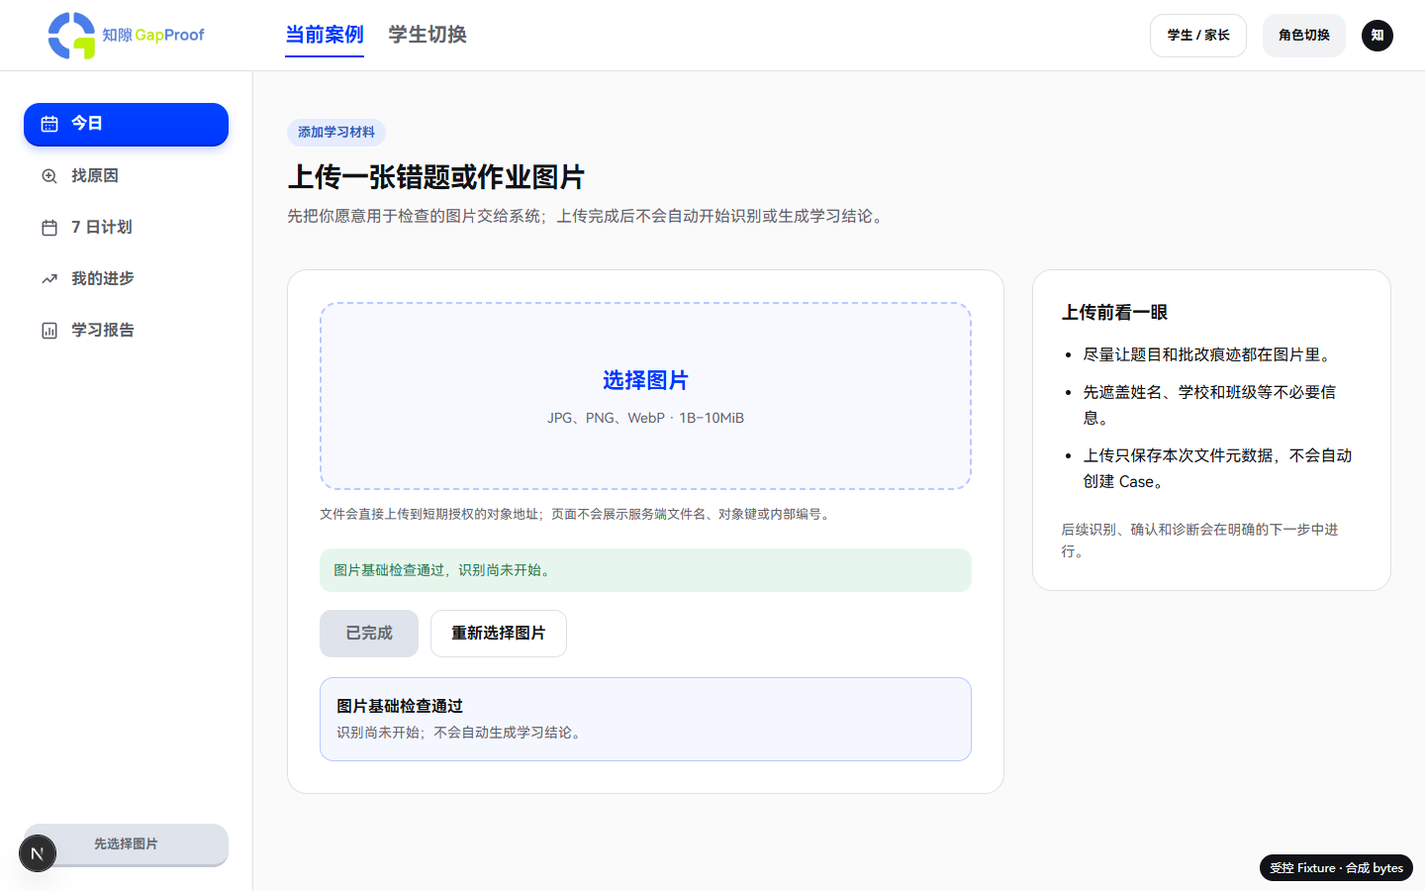
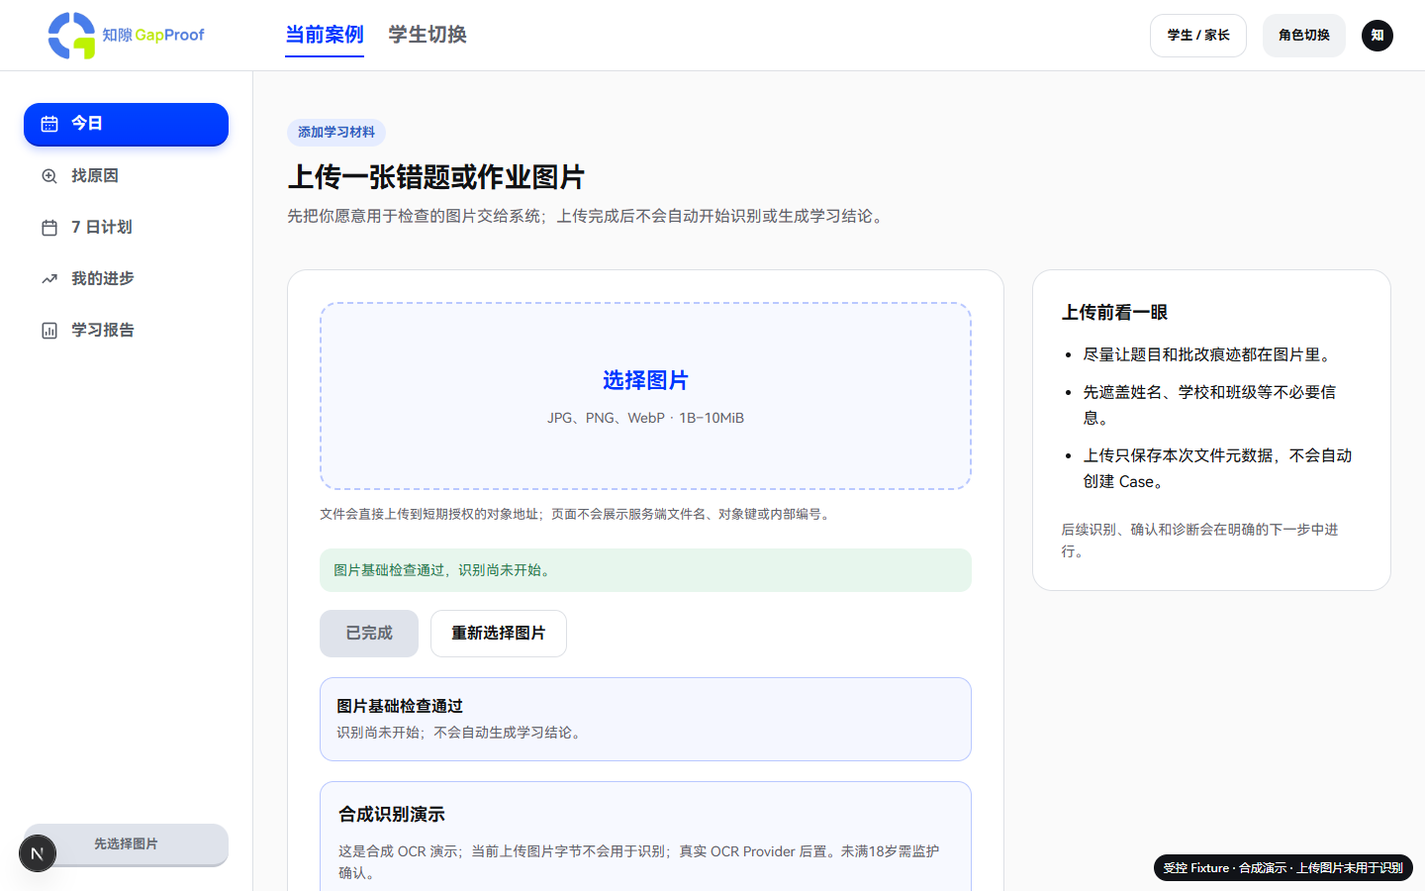
feat: complete explicit synthetic OCR acceptance flow

Changed region(s): [[0.2188, 0.9022, 0.6562, 0.9956], [0.8125, 0.9333, 1.0, 0.9956]]

diff --git a/PROJECT_MASTER.md b/PROJECT_MASTER.md
@@ -2,9 +2,9 @@
 project_name: "知隙 GapProof"
 document_title: "GapProof 项目主文档（Project Master / 单一事实源）"
 document_role: "跨窗口协作、产品规划、技术设计、比赛交付与状态管理的唯一主文档"
-version: "0.1.34"
+version: "0.1.35"
 status: "ACTIVE"
-current_stage: "项目本身初赛验收冲刺；PUSH-019 显式合成识别启动后端已通过门禁待发布；前端可点击入口仍待接入"
+current_stage: "本轮项目本身初赛验收标准已达到（仅合成 OCR 工程证据）；PUSH-020 显式可点击启动闭环已通过门禁待发布"
 last_updated: "2026-08-15"
 timezone: "Asia/Singapore"
 owner: "项目发起人"
@@ -144,7 +144,7 @@ next_action:
 
 `[FACT]` GOAI 无界应用赛道参赛手册列出的初赛截止日期为 2026-08-16；具体当天截止时刻、入口、文件大小及后续通知仍须在官网、提交系统或官方群再次核对。
 
-`[DECISION]` 当前处于：**项目本身初赛验收冲刺；学生端“今日”页默认入口已接入真实 API，ready guided、D1 与 D7 均有受控提交；D7 客观复测通过仅显示 `repair_verified` 中性结果，失败最多两次规则化合成重排后进入 `support_required`。当前初赛项目验收允许使用醒目标注的合成 OCR Demo；真实阿里云 OCR 后置。图片基础检查成功后的显式合成识别启动 API 已能原子创建/绑定 Case 并排队受守卫 Fake OCR，但前端“开始识别并创建案例”按钮仍未接入；上传字节不参与识别。异步报告不属于本轮项目验收；`report_ready` 仅保留“报告已生成、有权威引用且当前可读”的严格语义**。
+`[DECISION]` 当前处于：**本轮项目本身初赛验收标准已达到，但 OCR 证据严格限定为醒目标注的合成工程 Demo。学生端“今日”页默认 API 已接入 ready guided、D1 与 D7 受控提交；D7 通过仅显示 `repair_verified`，失败最多两次规则化合成重排后进入 `support_required`。上传页在基础检查通过后提供监护确认与显式“开始识别并创建案例”，同源 API 原子创建/绑定合成 Case 并排队受守卫 Fake OCR；上传图片字节不参与识别，真实阿里云 OCR 后置。异步报告不属于本轮验收；`report_ready` 仍只表示报告已生成、有权威引用且当前可读**。
 
 ### 1.2 已完成
 
@@ -188,7 +188,7 @@ next_action:
 - `[PLANNED]` 尚未建立 30–40 个技能节点及 12 个深度节点的图谱 V0.1。
 - `[PLANNED]` 尚未制作比赛用原创模拟试卷、合成学生轨迹和独立金标集。
 - `[PLANNED]` 尚未确认至少一位英语教育背景人员能否短时抽检核心金标内容。
-- `[PROTOTYPE]` 已建立最小后端 Thin Slice，并完成真实图片字节上传、确定性图片 header/尺寸质量检查、显式合成识别启动 API、受 Demo 守卫的 Fake OCR、无网络合成识别确认演示、确定性干预生成、guided/D1/D7 前端安全提交、D1/D7 后端评分及两次规则化重排封顶；尚未形成从真实 OCR 识别到修复证明的完整端到端 Demo。显式启动前端按钮、识别结果读取/确认写入、真实 OCR/AI 干预、真实题库、真实个性化内容与通知仍未实现；异步报告本轮 deferred。
+- `[PROTOTYPE]` 已建立本轮合成验收 Thin Slice：真实图片字节上传与基础检查后，用户经监护确认显式启动合成 Case/Fake OCR；另有醒目标注、无网络的合成识别确认演示；随后已有确定性干预、guided/D1/D7 前端安全提交、服务端评分及两次规则化重排封顶证据。它满足 DEC-OCR-ACCEPT-001 的本轮项目验收，但不是同一上传 Case 的识别读取/确认 UI，也不证明真实 OCR/AI、真实题库、个性化内容、人工服务或学习效果；异步报告本轮 deferred。
 - `[PROTOTYPE]` 学生端“今日”页 F0 Mock、F1b 只读 API、F1c ready D1 客户端作答及真实概览投影已完成对应技术门禁；受控 HTTP 浏览器 Fixture 已证明成功、冲突和网络未知三条交互边界。默认入口现为 API，只有显式 `?source=mock` 使用合成页面；业务主闭环仍未完成，其余学生 P0 页面、家长端页面和评委最小页仍未完成。
 - `[PLANNED]` 尚未完成正式 500 字简介、初赛 PPT、视频、README、数据卡、依赖清单和合规一页纸。
 - `[PLANNED]` 尚未产生可报告的工程评测结果或真实学生学习效果。
@@ -2061,7 +2061,7 @@ review_date:
 | 合成 Case | `[PROTOTYPE]` | 已完成 1 个原创合成 Case 及低置信、复测失败重排、D+7 成功分支；仍需扩充同题同错不同根因与回归集 | 数据 Schema/教材映射 |
 | 学生“今日”页视觉基线 | `[PROTOTYPE]` | 已选定 Stitch 桌面稿；默认 API、真实概览及 guided、ready D1、ready D7 安全作答已通过技术门禁，合成 Mock 仅显式启用；冻结书本越界裁切保持不变 | DESIGN v0.2.23 |
 | 其余学生/家长关键页设计 | `[PLANNED]` | 覆盖主闭环并遵循今日页设计准则 | 视觉基线 |
-| 可点击 Thin Slice | `[PLANNED]` | 上传到修复证明全链路 | 设计/开发 |
+| 可点击 Thin Slice | `[PROTOTYPE]` | 本轮合成验收链已覆盖上传/基础检查、显式创建 Case/合成识别启动、合成确认演示、干预与 D1/D7；真实 OCR 与同一上传 Case 的识别确认 UI 未完成 | 真实 Provider/识别读取与确认写入 |
 | 数据与合规页 | `[PLANNED]` | 类型、来源、授权、脱敏、删除、边界 | 数据选择 |
 | Demo 视频 | `[PLANNED]` | 3–4 分钟、事件回放标识、备用 | 原型稳定 |
 | 一致性审计 | `[PLANNED]` | 简介/PPT/视频/代码状态一致 | 全材料 |
@@ -2118,6 +2118,13 @@ review_date:
 ---
 
 ## 30. 变更日志
+
+### v0.1.35 — 2026-08-15
+
+- `/materials/new` 在 `succeeded + quality.passed` 后显示持久合成披露、监护确认与精确“开始识别并创建案例”按钮；未确认、needs_confirmation、failed 或 timeout 均不得启动。
+- 显式点击使用独立 UUIDv7 start intent；同 key/body 只重试一次未知结果，第二次未知后锁定。成功只显示“案例已创建，合成识别已排队/上传图片未用于识别”，不显示 assetId/caseId/jobId、对象键、文件名、hash、token 或 OCR 内容，也不自动跳转无关联 Demo 页。
+- 134 fast、57 PostgreSQL/API/Worker integration、91 apps/web、双 TypeScript、Next production build、migration drift、上传/Demo/guided/D1/D7 浏览器 Fixture与 Mock/API/Demo 双视口通过；新增显式启动成功 1440×900/1366×768 证据。
+- 本轮项目本身初赛验收按 DEC-OCR-ACCEPT-001 判定达到；该结论不证明真实 OCR、同一 Case 识别读取/确认、30–50 页基准、派生留存、真实个性化或学习效果。同步 PRD v0.1.27、TDD v0.3.28、DESIGN v0.2.25 与 PUSH-020。
 
 ### v0.1.34 — 2026-08-15
 

diff --git a/TDD.md b/TDD.md
@@ -2,15 +2,15 @@
 project_name: "知隙 GapProof"
 document_title: "GapProof 技术设计文档（TDD）"
 document_role: "技术路线、系统边界、架构约束与工程验收的权威文档"
-version: "0.3.27"
+version: "0.3.28"
 status: "DRAFT_FOR_IMPLEMENTATION"
 last_updated: "2026-08-15"
 timezone: "Asia/Singapore"
 canonical_path: "D:\\Users\\Eason\\Documents\\ChatGPT\\知隙GapProof\\TDD.md"
 repository_url: "https://github.com/ceason436-hue/GapProof.git"
 upstream_documents:
-  - "D:\\Users\\Eason\\Documents\\ChatGPT\\知隙GapProof\\PROJECT_MASTER.md v0.1.34"
-  - "D:\\Users\\Eason\\Documents\\ChatGPT\\知隙GapProof\\PRD.md Draft v0.1.26"
+  - "D:\\Users\\Eason\\Documents\\ChatGPT\\知隙GapProof\\PROJECT_MASTER.md v0.1.35"
+  - "D:\\Users\\Eason\\Documents\\ChatGPT\\知隙GapProof\\PRD.md Draft v0.1.27"
 ---
 
 # 知隙 GapProof 技术设计文档（TDD）
@@ -1215,7 +1215,7 @@ Serverless 很适合短 API 和自动扩容，但 OCR、多轮模型、报告、
 - F0 Mock、默认 API、真实 overview、ready guided 与 D1 客户端提交已完成对应技术门禁。guided 浏览器 Fixture 验证同源提交、Case GET 失败恢复、冲突重新确认和网络未知锁定；D1 `support_required` 仅展示封顶与协助建议。
 - 当前证据为 126 条快速测试、54 条真实 PostgreSQL/API/Worker 集成测试、81 条 apps/web 测试、migration drift、Mock/API/Demo 双视口、guided/Demo/上传/D1 浏览器 Fixture、TypeScript 严格类型检查和 Next.js production build 通过；最终发布前按暂存态复核计数。
 
-该快照不等于 Phase A 完成：真实图片字节可上传到受控本地目录，显式合成识别启动后端可创建/绑定 Case 并排队受守卫 Fake OCR，但前端按钮、真实 OCR/识别确认、真实 AI 干预、真实题库、通知、报告、真实模型 Provider 和上传到修复证明的完整端到端 Playwright Demo 仍未实现。上传字节不参与 Fake OCR；两次差异化重排仅是规则化合成骨架，不是现实个性化内容。
+该快照不等于真实 OCR Phase A 完成：真实图片字节可上传到受控本地目录，前端可经监护确认显式创建/绑定合成 Case 并排队受守卫 Fake OCR，但真实 OCR/同一 Case 识别读取确认、真实 AI 干预、真实题库、通知、报告与真实模型 Provider 仍未实现。上传字节不参与 Fake OCR；合成确认页与重排仅是规则化工程骨架，不是现实识别或个性化内容。
 
 ### 21.1 Phase A：Thin Slice（先证明闭环）
 
@@ -1621,8 +1621,16 @@ Git 远端：`https://github.com/ceason436-hue/GapProof.git`
 | PUSH-017 | 2026-08-15 | `main` | `pushed` | `feat: complete guided tasks and cap retest replans` | 合并 guided 安全完成、ready D7 服务端评分、`repair_verified`、持久两次差异化重排与 `support_required` 封顶；同步五项最终产品决策与严格 `report_ready`。D7 前端、真实 OCR、显式创建 Case/启动识别、异步报告仍未实现；规则内容仍为合成骨架 | 126 条快速测试、54 条真实 PostgreSQL/API/Worker 集成测试、81 条 apps/web 测试、Drizzle migration drift、guided/D1/上传/Demo 浏览器 Fixture、Mock/API/Demo 双视口、全仓 TypeScript、Next.js production build、`git diff --check`、敏感/私有材料/生成缓存与暂存范围审计通过；同轮推送并核对本地/远端 SHA 一致 |
 | PUSH-018 | 2026-08-15 | `main` | `pushed` | `feat: submit D7 retests safely from Today` | 合并 ready D7 前端安全作答、权威 Case `stateVersion`、UUIDv7、同 key/body 单次未知重试、冲突刷新后重新确认与 `NETWORK_UNKNOWN` 锁定；只显示 `repair_verified` / `replan_required` / `support_required` 中性结果，不开放报告。同步四主文档与完全访问长期治理；显式创建 Case/启动识别、真实 OCR 与异步报告仍未实现 | 130 条快速测试、54 条真实 PostgreSQL/API/Worker 集成测试、88 条 apps/web 测试、Drizzle migration drift、D7/D1/guided/上传/Demo 浏览器 Fixture、Mock/API/Demo 双视口、全仓及 web TypeScript、Next.js production build、`git diff --check`、敏感/私有材料/生成缓存与暂存范围审计通过；同轮推送并核对本地/远端 SHA 一致 |
 | PUSH-019 | 2026-08-15 | `main` | `pushed` | `feat: start synthetic recognition from inspected uploads` | 新增已检查 asset 的显式 `synthetic_demo` 启动契约/API：要求 `guardianConfirmed:true`，同事务创建并绑定唯一合成 Case、写幂等记录和排队 run-next；Job 固定 synthetic fixture，上传字节不参与 Fake OCR。source asset 自创建起保留期封顶 7 天；前端按钮、确认后 24h 缩短/主动删除、真实 OCR 仍未实现 | 131 条快速测试、57 条真实 PostgreSQL/API/Worker 集成测试、88 条 apps/web 测试、Drizzle migration drift、全仓及 web TypeScript、Next.js production build、`git diff --check`、敏感/私有材料/生成缓存与暂存范围审计通过；同轮推送并核对本地/远端 SHA 一致 |
+| PUSH-020 | 2026-08-15 | `main` | `pushed` | `feat: complete explicit synthetic OCR acceptance flow` | 上传页仅在基础检查通过后显示监护确认与显式“开始识别并创建案例”；使用独立 UUIDv7、同 key/body 单次未知重试及最终锁定。成功仅声明合成 Case 已创建/识别已排队和上传图片未用于识别；不跳转旧 Demo、不泄露内部字段。按 DEC-OCR-ACCEPT-001 达到本轮项目本身初赛验收，真实 OCR/同一 Case 识别确认仍未实现 | 134 条快速测试、57 条真实 PostgreSQL/API/Worker 集成测试、91 条 apps/web 测试、Drizzle migration drift、上传/Demo/guided/D1/D7 浏览器 Fixture、Mock/API/Demo 及显式启动双视口、全仓及 web TypeScript、Next.js production build、`git diff --check`、敏感/私有材料/生成缓存与暂存范围审计通过；同轮推送并核对本地/远端 SHA 一致 |
 
 ## 27. 变更日志
+
+### v0.3.28 — 2026-08-15
+
+- 前端复用共享 start-recognition schema：仅成功基础检查显示监护确认与显式按钮；start intent 使用独立 UUIDv7、同 key/body 一次未知重试，最终未知锁定。
+- 浏览器 Fixture 从真实选择文件、上传、prepare、轮询进入 start POST，覆盖成功、两次未知锁定与 already-bound 明确重试；断言 same-origin、精确 DTO、start/upload key 分离及内部字段不泄露。
+- 新增 `source-recognition-start-success` 双视口截图，持久标记合成演示与上传图片未用于识别；不改变 Today Stitch V1.1 冻结裁切。
+- 134 fast、57 PostgreSQL/API/Worker integration、91 apps/web、双 TypeScript、Next production build、migration drift 和全部浏览器/视觉门禁通过。同步 PROJECT_MASTER v0.1.35、PRD v0.1.27、DESIGN v0.2.25 与 PUSH-020；本轮合成验收达到，不提升真实 OCR/学习效果状态。
 
 ### v0.3.27 — 2026-08-15
 

diff --git a/PRD.md b/PRD.md
@@ -7,10 +7,10 @@
 
 | 项目 | 内容 |
 |---|---|
-| 文档状态 | Draft v0.1.26 |
+| 文档状态 | Draft v0.1.27 |
 | 产品名称 | 知隙 GapProof |
 | 文档角色 | 产品需求、业务流程、功能范围与验收标准 |
-| 当前阶段 | PUSH-019 显式合成识别启动后端已通过门禁待发布；前端可点击入口仍待接入 |
+| 当前阶段 | 本轮项目本身初赛验收标准已达到（仅合成 OCR 工程证据）；PUSH-020 显式可点击启动闭环已通过门禁待发布 |
 | 产品形态 | Web 应用 |
 | 目标教材 | 上海教育出版社《义务教育教科书（五·四学制）英语 八年级上册》 |
 | 适用版本 | 目标教材以 ISBN、当前 PDF 哈希和内容快照锁定；版权页不可取得，版次、印次和册次保持未知 |
@@ -499,8 +499,8 @@ Demo 界面或旁白必须明确区分：
 - `[PROTOTYPE]` D+1 ready 任务现可通过共享 `POST /v1/tasks/{taskId}/attempts` 契约提交客观选择并由服务端私有答案确定性评分；通过时创建 D7 调度，失败时事务内入队异步重排。当前题目与重排内容仍为明确标记的合成 Fixture，不是现实题库或真实个性化效果。
 - `[PROTOTYPE]` ready D7 已复用同一 attempts 路由完成跨端安全作答与服务端确定性评分：Today 提交前读取权威 Case 版本，使用 UUIDv7、同 key/body 单次未知重试、冲突重新确认与未知结果锁定；通过进入 `repair_verified`，不会冒充 `report_ready`；失败按持久 `replan_count` 最多自动重排两次，再次失败进入 `support_required` 且不再入队。规则化合成内容不等于真实个性化或真实人工协助。
 - `[PROTOTYPE]` ready guided intervention 已可在 Today 勾选完整步骤并安全提交；使用权威 Case 版本、UUIDv7 幂等意图、冲突重新确认、独立 GET 恢复和网络未知锁定，完成后只声明安排 D+1，不声明掌握。
-- `[PROTOTYPE]` 学生端“今日”页 F0 Mock、F1b API、F1c ready D1 与 ready D7 客户端作答及真实 overview 已通过对应构建和自动化门禁；D1/D7 使用共享 attempts contracts、权威 Case 版本、UUIDv7 幂等意图和受控错误状态。D7 受控 HTTP 浏览器 Fixture 已覆盖真实点击成功、`VERSION_CONFLICT` 重新确认与 `NETWORK_UNKNOWN` 锁定三条路径；无参数入口现走真实 API，只有显式 `?source=mock` 使用合成页面。合成识别启动后端已实现但前端按钮尚未接入，因此仍不能作为完整主闭环完成证据。
-- `[PROTOTYPE]` 已实现 JPEG/PNG/WebP、1B–10MiB 的真实字节上传与确定性图片基础检查；通过后可由正式 start-recognition API 在监护确认下原子创建/绑定合成 Demo Case 并排队受守卫 Fake OCR。响应明确识别源为 `synthetic_fixture`、上传字节未用于识别；页面仍未提供显式按钮。服务端不返回对象键、token、内部文件名、hash 或 OCR 内容；该能力不是生产 S3、完整图片质量模型、真实 OCR、真实识别确认或学习效果。
+- `[PROTOTYPE]` 学生端“今日”页 F0 Mock、F1b API、F1c ready D1 与 ready D7 客户端作答及真实 overview 已通过对应构建和自动化门禁；D1/D7 使用共享 attempts contracts、权威 Case 版本、UUIDv7 幂等意图和受控错误状态。D7 浏览器 Fixture 已覆盖成功、`VERSION_CONFLICT` 重新确认与 `NETWORK_UNKNOWN` 锁定；无参数入口走真实 API，只有显式 `?source=mock` 使用合成页面。上传页显式合成识别启动也已接入，但真实 OCR 与同一上传 Case 的识别确认仍未完成，因此不得称完整真实主闭环。
+- `[PROTOTYPE]` 已实现 JPEG/PNG/WebP、1B–10MiB 的真实字节上传与基础检查；通过后页面要求监护确认并由精确“开始识别并创建案例”按钮调用正式 start-recognition API，原子创建/绑定合成 Demo Case 并排队受守卫 Fake OCR。页面与响应持续说明上传字节未用于识别，不返回对象键、token、内部文件名、hash、内部 ID 或 OCR 内容；该能力不是生产 S3、完整质量模型、真实 OCR、同一 Case 识别确认或学习效果。
 - `[PROTOTYPE]` 遗留 Fake OCR 只允许 `simulation && synthetic` 的 Demo Case，API 与 Worker 双重拒绝非 Demo 路径。`/materials/demo/review` 是明确标注的无网络合成识别确认演示：允许本地修正和记录演示确认，提供空态/错误态，但不调用 `/api/v1`、不启动 OCR、不创建或推进 Case、不生成学习结论。真实上传到 Case 的绑定、识别结果读取 DTO 与确认写入仍未实现。
 - 因此，以下验收项仍是完整 MVP 的目标，不因后端局部闭环而标记为 `[LIVE]`。
 
@@ -656,6 +656,7 @@ PROJECT_MASTER.md
 
 | 版本 | 日期 | 说明 |
 |---|---|---|
+| 0.1.27 | 2026-08-15 | 发布上传页显式“开始识别并创建案例”、监护确认、合成/未使用上传图片披露、独立 UUIDv7 start intent、单次未知重试与锁定；成功仅表示合成 Case 创建/任务入队。按 DEC-OCR-ACCEPT-001 判定本轮项目本身初赛验收达到；同步 PROJECT_MASTER v0.1.35、TDD v0.3.28、DESIGN v0.2.25 与 PUSH-020。真实 OCR、同一 Case 识别确认、30–50 页基准、派生留存和异步报告仍 unresolved/deferred |
 | 0.1.26 | 2026-08-15 | 发布已检查 source asset 的显式 `synthetic_demo` 启动后端：要求监护确认，同事务创建/绑定唯一 Case、幂等排队受守卫 Fake OCR，上传字节不参与识别；原图保留期从上传起封顶 7 天。同步 PROJECT_MASTER v0.1.34、TDD v0.3.27、DESIGN v0.2.24 与 PUSH-019；前端按钮、识别确认后 24h 缩短/主动删除、真实 OCR、派生留存和异步报告仍未实现 |
 | 0.1.25 | 2026-08-15 | 发布 Today ready D7 安全作答、权威 Case 版本、UUIDv7、同 key/body 单次未知重试、冲突重新确认、`NETWORK_UNKNOWN` 锁定及三种服务端结果中性文案；不开放报告、不宣称真实个性化/人工服务。同步 PROJECT_MASTER v0.1.33、TDD v0.3.26、DESIGN v0.2.23 与 PUSH-018；显式创建 Case/启动识别、真实 OCR、30–50 页基准、派生数据留存和异步报告仍 unresolved/deferred |
 | 0.1.24 | 2026-08-15 | 发布 guided 安全完成与服务端 D7 客观评分、两次规则化重排及 `support_required` 封顶；确认合成 OCR 可满足本轮项目验收、显式开始识别/创建 Case、阿里云处理与未成年人边界、严格 `report_ready` 和异步报告 deferred。D7 前端、真实 OCR、30–50 页基准、派生数据留存仍未完成；同步 PROJECT_MASTER v0.1.32、TDD v0.3.25、DESIGN v0.2.22 与 PUSH-017 |

diff --git a/DESIGN.md b/DESIGN.md
@@ -2,9 +2,9 @@
 project_name: "知隙 GapProof"
 document_title: "GapProof 视觉与交互设计文档（DESIGN）"
 document_role: "信息架构、页面、视觉、交互、状态与可访问性的权威文档"
-version: "0.2.24"
+version: "0.2.25"
 status: "DRAFT_FOR_IMPLEMENTATION"
-current_design_stage: "PUSH-019 显式合成识别启动后端已通过门禁待发布；前端可点击入口仍待接入"
+current_design_stage: "本轮项目本身初赛验收标准已达到（仅合成 OCR 工程证据）；PUSH-020 显式可点击启动闭环已通过门禁待发布"
 last_updated: "2026-08-15"
 timezone: "Asia/Singapore"
 canonical_path: "D:\\Users\\Eason\\Documents\\ChatGPT\\知隙GapProof\\DESIGN.md"
@@ -88,9 +88,9 @@ upstream_documents:
 
 **已完成**：学生端“今日”页的桌面视觉结构、颜色角色、主要卡片层级和关键静态内容已确定；默认 API、真实 Today overview、ready guided、ready D1 与 ready D7 安全作答已完成对应构建和自动化门禁。写入均使用权威 Case 版本、共享 contracts 和 UUIDv7 幂等意图；D7 Fixture 覆盖成功、冲突重新确认与两次未知结果锁定。无参数入口展示服务端 7 日足迹、nullable 周目标、待确认数、脱敏进展与下次检查；合成 Mock 仅显式启用。`/materials/new` 已完成真实单图选择、校验、上传、异步基础检查；`/materials/demo/review` 是持久 Demo 标记的无网络合成识别确认演示。
 
-**尚未完成**：真实模糊度、方向、缺页与恶意文件检查，已实现的合成 start-recognition API 尚未接入上传页显式按钮；OCR 结果读取与确认写入、其他学生 P0 页面、家长端页面、Logo 紧裁/SVG/Favicon 与最终品牌规范、完整交互原型。异步报告本轮 deferred。
+**尚未完成**：真实模糊度、方向、缺页与恶意文件检查，真实 OCR 与同一上传 Case 的识别结果读取/确认写入；其他学生 P0 页面、家长端页面、Logo 紧裁/SVG/Favicon 与最终品牌规范、完整交互原型。异步报告本轮 deferred。
 
-**下一步**：在基础检查成功态接入“开始识别并创建案例”独立按钮、监护确认与 synthetic disclosure；成功后只显示 Case 已创建、合成识别已排队，不暗示上传图片已被真实 OCR。任何新字段不得从视觉稿或合成 Fixture 反推业务状态。
+**下一步**：本轮合成项目验收已达到；后续若继续工程能力，优先选择真实 OCR Provider Spike 或同一 Case 识别读取/确认 UI，并继续保持真实/合成状态隔离。任何新字段不得从视觉稿或合成 Fixture 反推业务状态。
 
 ### 0.4 设计底线
 
@@ -1776,6 +1776,13 @@ MVP 不使用雷达图表示英语能力或掌握度，原因：
 ---
 
 ## 22. 版本记录
+
+### v0.2.25 — 2026-08-15
+
+- 发布基础检查成功态的独立监护确认与“开始识别并创建案例”；按钮不自动触发，needs_confirmation/failed/timeout 不出现该动作。
+- 启动前持久展示“合成 OCR 演示、上传图片字节不会用于识别、真实 Provider 后置”；成功只展示“案例已创建，合成识别已排队/上传图片未用于识别”，不显示内部 ID 或自动跳转旧 Demo。
+- 新增 1440×900、1366×768 成功启动截图及成功/未知锁定/already-bound 浏览器证据；固定壳层、Stitch“今日-最终确认版V1.1”和深色卡书本越界裁切不变。
+- 按 DEC-OCR-ACCEPT-001 判定本轮项目本身初赛验收达到；同步 PROJECT_MASTER v0.1.35、PRD v0.1.27、TDD v0.3.28 与 PUSH-020。真实 OCR、同一 Case 识别确认、学习效果和报告仍未实现。
 
 ### v0.2.24 — 2026-08-15
 
